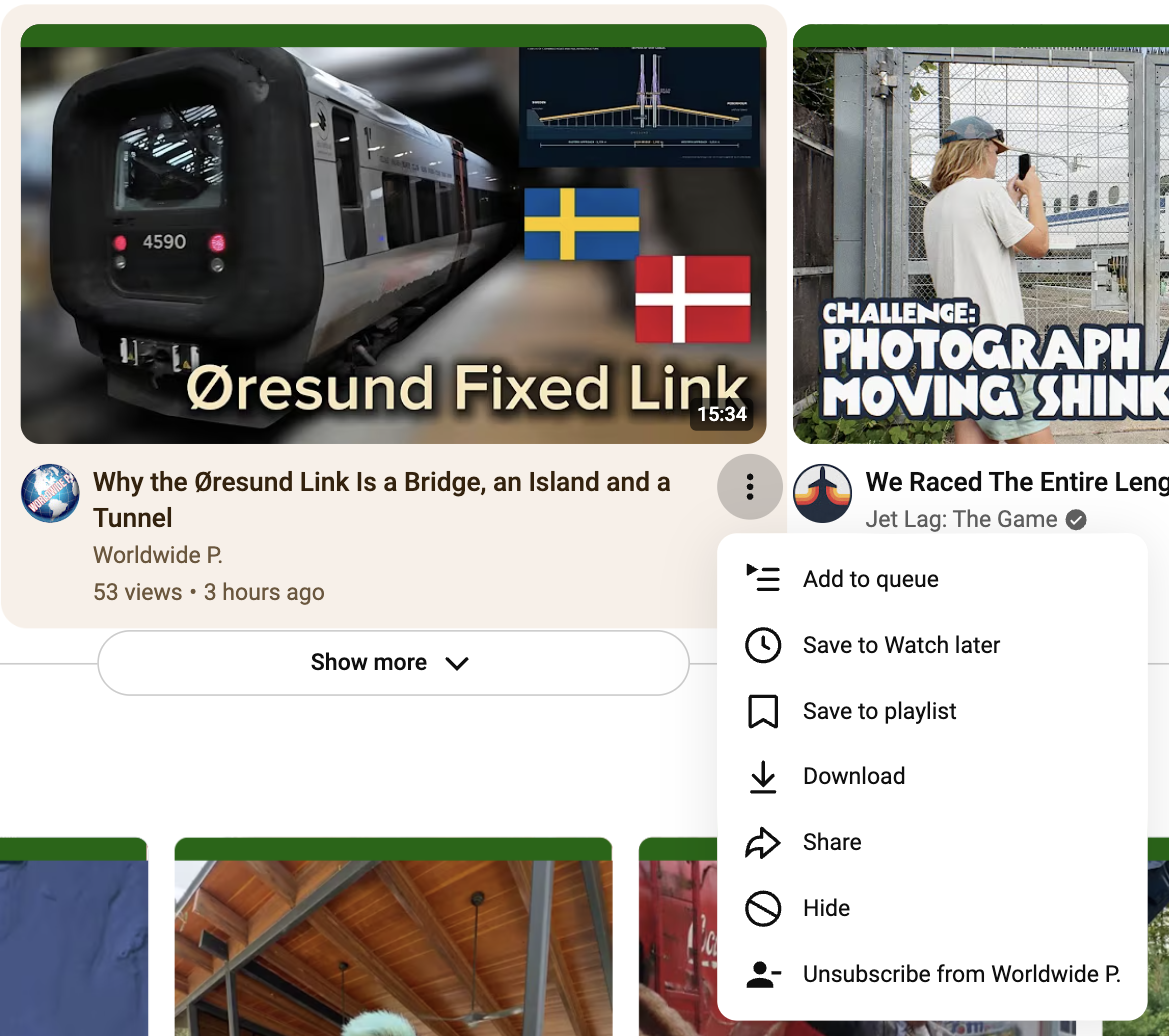
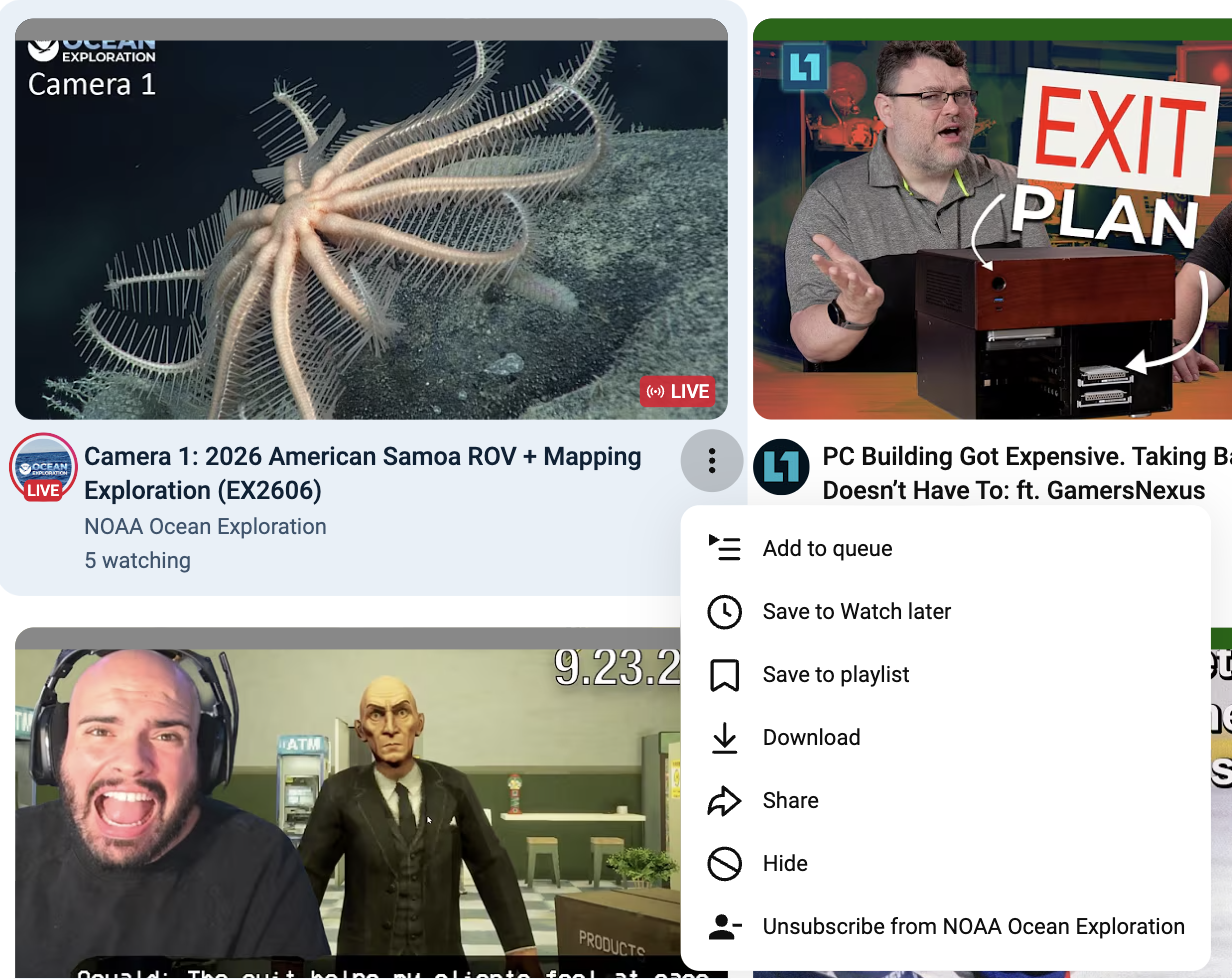
Support Shorts cards; new demo screenshot

diff --git a/yt-feed-unsubscribe.user.js b/yt-feed-unsubscribe.user.js
@@ -1,7 +1,7 @@
 // ==UserScript==
 // @name         YouTube Feed Unsubscribe
 // @namespace    https://github.com/MatRanc/yt-feed-unsubscribe
-// @version      1.0.0
+// @version      1.1.0
 // @description  Adds an "Unsubscribe" item to the ⋮ menu on videos in your YouTube subscriptions feed.
 // @author       MatRanc
 // @match        https://www.youtube.com/*
@@ -14,7 +14,7 @@
 (() => {
   'use strict';
 
-  const CARD = 'ytd-rich-item-renderer, yt-lockup-view-model, ytd-video-renderer, ytd-grid-video-renderer';
+  const CARD = 'ytd-rich-item-renderer, yt-lockup-view-model, ytm-shorts-lockup-view-model, ytd-video-renderer, ytd-grid-video-renderer';
   const CHANNEL_LINK = 'a[href^="/@"], a[href^="/channel/"]';
   // Material "person_remove" icon
   const ICON = 'M14 8c0-2.21-1.79-4-4-4S6 5.79 6 8s1.79 4 4 4 4-1.79 4-4zm3 2v2h6v-2h-6zM2 18v2h16v-2c0-2.66-5.33-4-8-4s-8 1.34-8 4z';
@@ -49,10 +49,23 @@
     return id;
   }
 
+  // Regular cards link to the channel; Shorts cards only have the video ID, so ask the player API.
+  function channelOf(card) {
+    const link = card.querySelector(CHANNEL_LINK);
+    if (link) {
+      const href = link.getAttribute('href');
+      return { href, name: Promise.resolve(link.textContent.trim() || href.slice(1)), id: () => channelId(href) };
+    }
+    const videoId = card.querySelector('a[href^="/shorts/"]')?.getAttribute('href').split('/')[2];
+    if (!videoId) return null;
+    const details = api('player', { videoId }).then(r => r.videoDetails);
+    return { name: details.then(d => d.author), id: () => details.then(d => d.channelId) };
+  }
+
   const visibleMenu = () =>
     [...document.querySelectorAll('ytd-popup-container yt-list-view-model')].find(m => m.getClientRects().length);
 
-  function addItem(menu, href, name) {
+  function addItem(menu, card, channel) {
     menu.querySelector('[data-feed-unsub]')?.remove();
     const template = menu.querySelector('yt-list-item-view-model:last-of-type');
     if (!template) return;
@@ -60,7 +73,9 @@
     // Clone a native row so it inherits YouTube's styling; cloneNode drops their listeners.
     const item = template.cloneNode(true);
     item.dataset.feedUnsub = '';
-    item.querySelector('.ytListItemViewModelTitle').textContent = `Unsubscribe from ${name}`;
+    const title = item.querySelector('.ytListItemViewModelTitle');
+    title.textContent = 'Unsubscribe';
+    channel.name.then(name => (title.textContent = `Unsubscribe from ${name}`), () => {});
 
     const svg = document.createElementNS('http://www.w3.org/2000/svg', 'svg');
     svg.setAttribute('viewBox', '0 0 24 24');
@@ -75,13 +90,15 @@
     item.addEventListener('click', async e => {
       e.stopPropagation();
       menu.closest('tp-yt-iron-dropdown')?.close?.();
-      if (!confirm(`Unsubscribe from ${name}?`)) return;
       try {
-        await api('subscription/unsubscribe', { channelIds: [await channelId(href)] });
-        // Hide the channel's other videos in the feed too.
-        document.querySelectorAll(`a[href="${CSS.escape(href)}"]`).forEach(a => {
-          const card = a.closest('ytd-rich-item-renderer') || a.closest(CARD);
-          if (card) card.style.display = 'none';
+        const name = await channel.name;
+        if (!confirm(`Unsubscribe from ${name}?`)) return;
+        await api('subscription/unsubscribe', { channelIds: [await channel.id()] });
+        // Hide this card, plus the channel's other videos in the feed.
+        (card.closest('ytd-rich-item-renderer') || card).style.display = 'none';
+        if (channel.href) document.querySelectorAll(`a[href="${CSS.escape(channel.href)}"]`).forEach(a => {
+          const c = a.closest('ytd-rich-item-renderer') || a.closest(CARD);
+          if (c) c.style.display = 'none';
         });
       } catch (err) {
         alert(`Unsubscribe failed: ${err.message}`);
@@ -92,19 +109,17 @@
   }
 
   document.addEventListener('click', e => {
-    if (location.pathname !== '/feed/subscriptions') return;
+    if (!location.pathname.startsWith('/feed/subscriptions')) return;
     const card = e.target.closest('button')?.closest(CARD);
-    const link = card?.querySelector(CHANNEL_LINK); // Shorts cards have no channel link; skip them
-    if (!link) return;
-    const href = link.getAttribute('href');
-    const name = link.textContent.trim() || href.slice(1);
+    const channel = card && channelOf(card);
+    if (!channel) return;
 
     // The popup renders async; poll briefly for it.
     let tries = 0;
     const timer = setInterval(() => {
       const menu = visibleMenu();
       if (menu || ++tries > 20) clearInterval(timer);
-      if (menu) addItem(menu, href, name);
+      if (menu) addItem(menu, card, channel);
     }, 50);
   }, true);
 })();

diff --git a/README.md b/README.md
@@ -2,7 +2,7 @@
 
 A tiny userscript that adds **Unsubscribe from ‹channel›** to the ⋮ menu on videos in your [YouTube subscriptions feed](https://www.youtube.com/feed/subscriptions). You can prune your subscriptions while you scroll, without opening each channel page.
 
-<p align="center"><img src="docs/demo.png" width="520" alt="The ⋮ menu on a subscriptions-feed video, with an added 'Unsubscribe from Worldwide P.' item under Hide"></p>
+<p align="center"><img src="docs/demo.png" width="520" alt="The ⋮ menu on a subscriptions-feed video, with an added 'Unsubscribe from NOAA Ocean Exploration' item under Hide"></p>
 
 ## Install
 
@@ -15,7 +15,7 @@ Tampermonkey checks this repo for updates automatically.
 
 ## How it works
 
-- When you click ⋮ on a video card in the subscriptions feed, the script reads the channel link (`/@handle`) from that card.
+- When you click ⋮ on a video card in the subscriptions feed, the script reads the channel link (`/@handle`) from that card. Shorts cards don't have a channel link, so for those it looks up the channel from the video ID.
 - It adds a row to YouTube's own popup by cloning the existing **Hide** row, so it matches the theme (light or dark) and the font.
 - Clicking the row asks you to confirm. It then calls the same internal API that YouTube's own Subscribe button uses (`youtubei/v1/subscription/unsubscribe`), authenticated with your existing session cookie, and hides that channel's videos from the feed you're looking at.
 
@@ -23,7 +23,7 @@ Nothing is sent anywhere except `youtube.com`. The script has no dependencies an
 
 ## Limitations
 
-- It only runs on `/feed/subscriptions`. Shorts cards don't include a channel link, so they don't get the menu item.
+- It only runs on the subscriptions feed (`/feed/subscriptions`), for both regular videos and Shorts.
 - YouTube changes its markup often. If the item stops appearing, [open an issue](https://github.com/MatRanc/yt-feed-unsubscribe/issues).
 
 ## License
